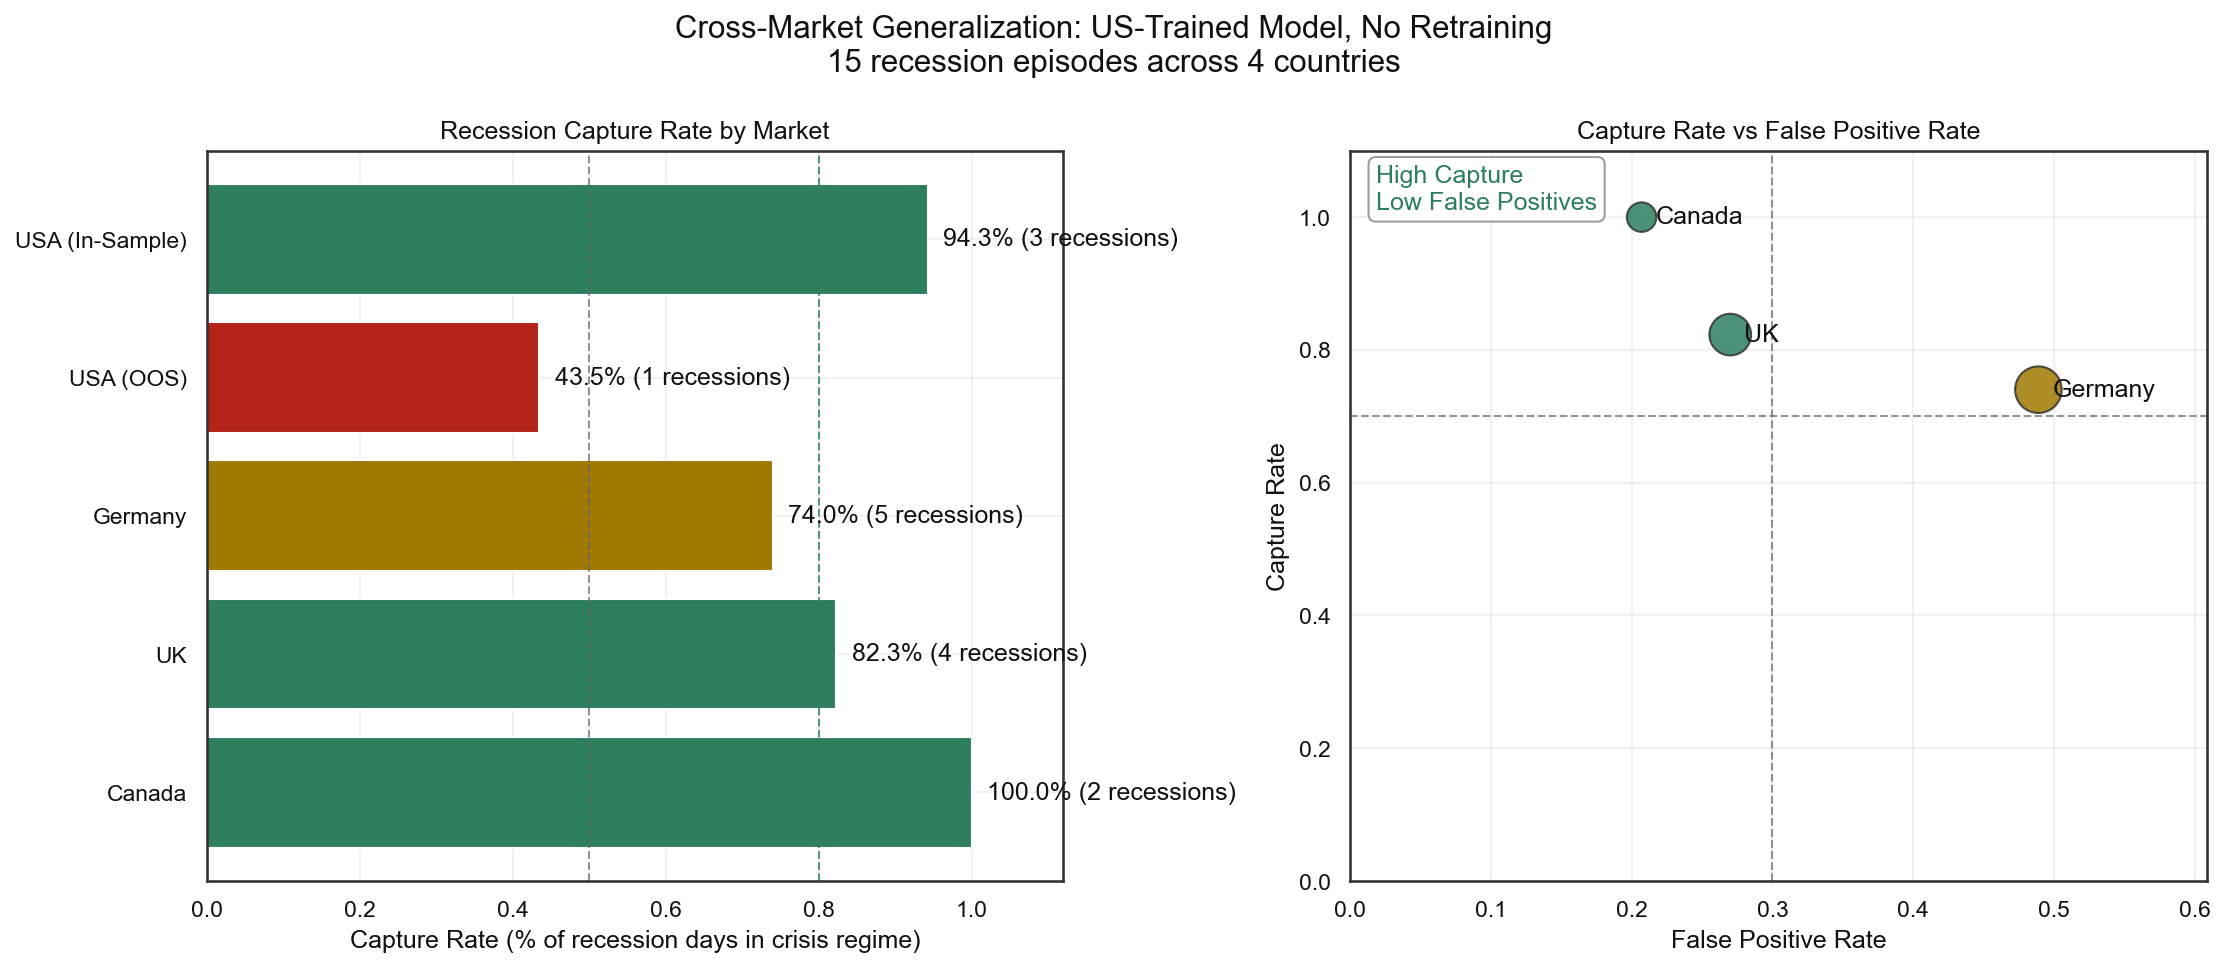
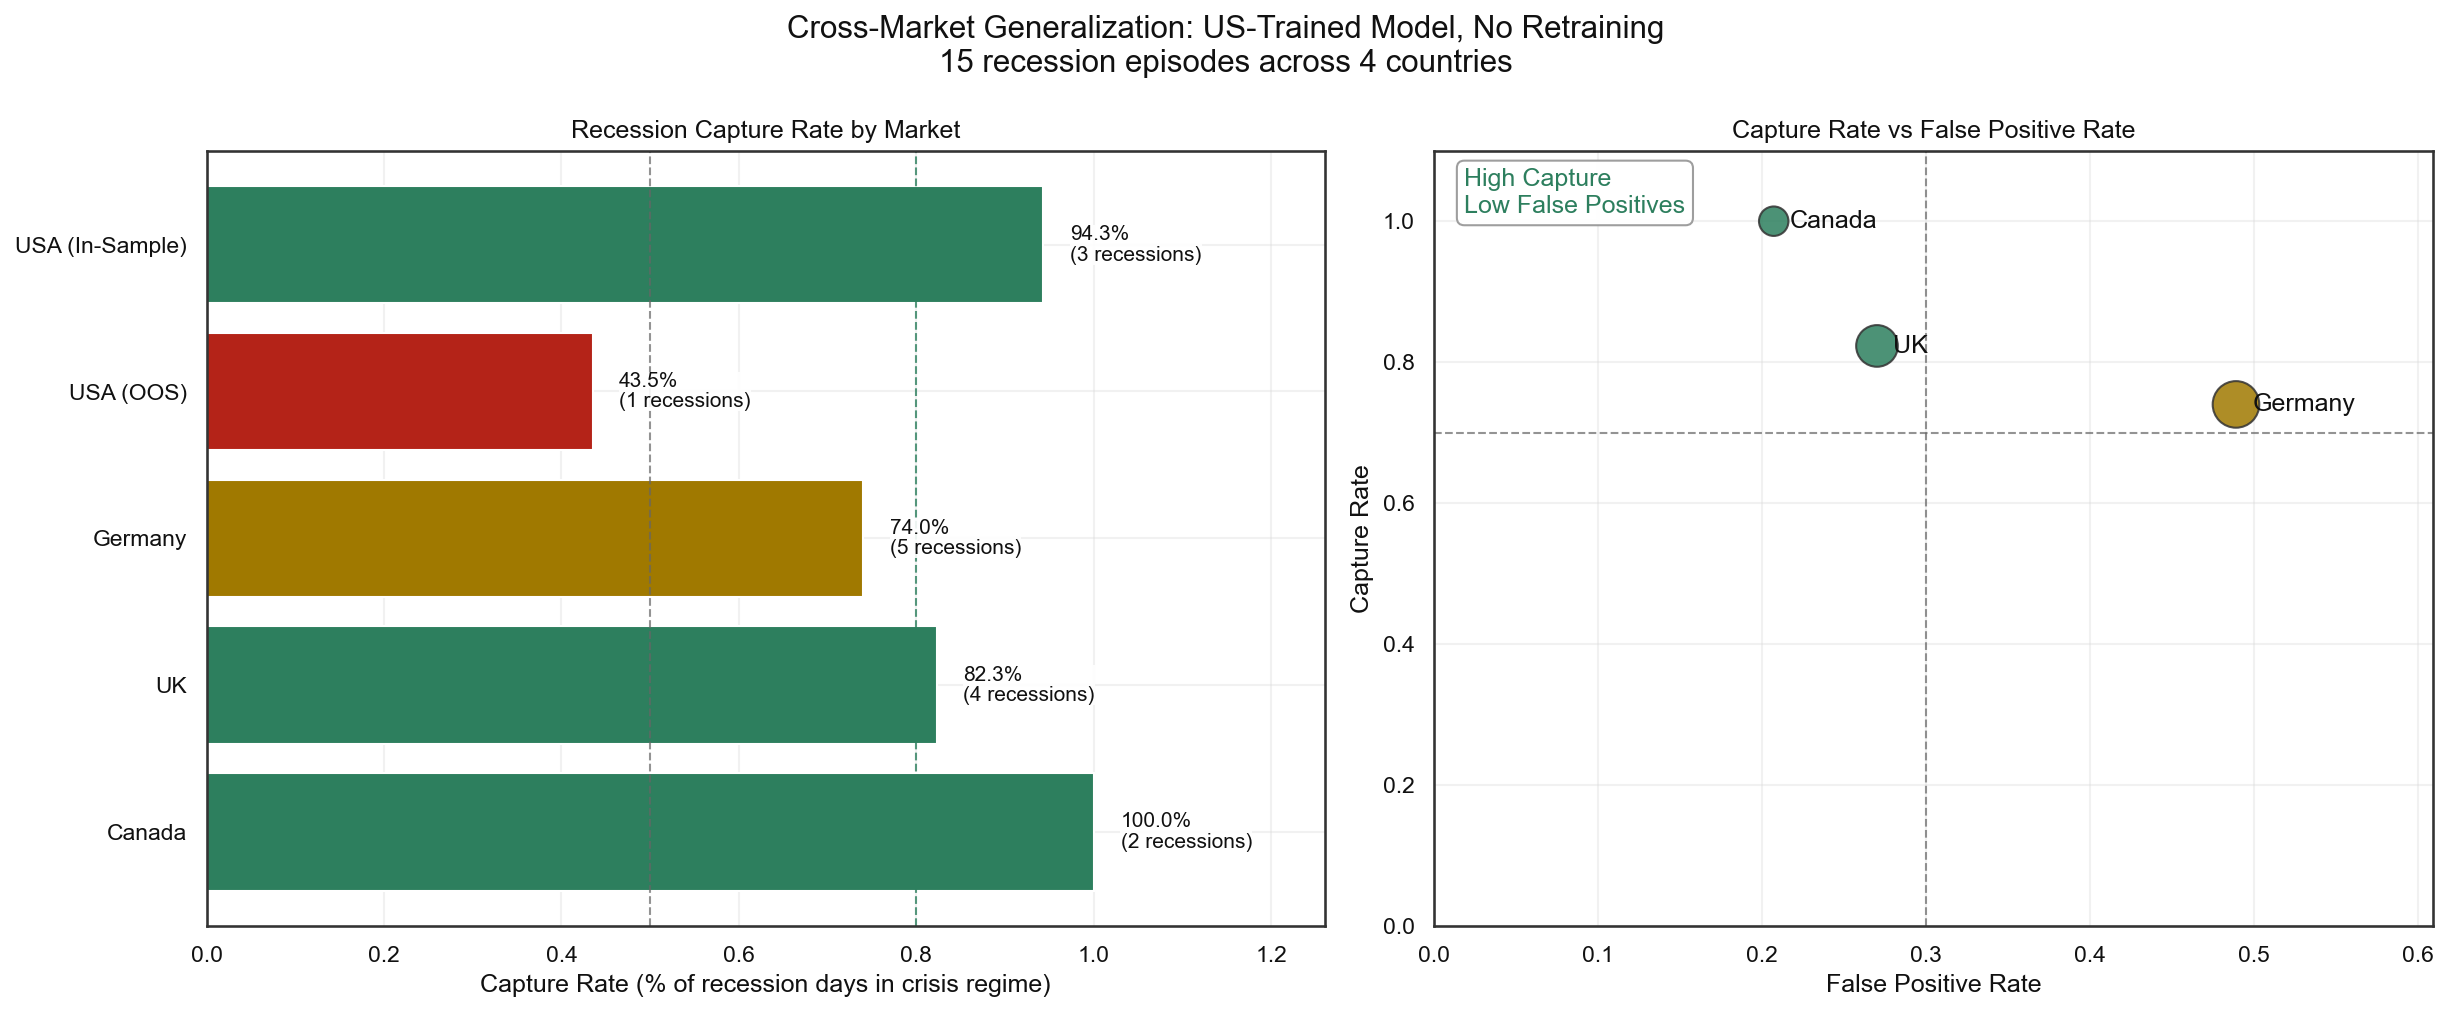
fix deliverables notebook paths and cross-market chart layout

diff --git a/viz.py b/viz.py
@@ -413,7 +413,7 @@ def plot_cross_market_validation(results_dict):
         return COLORS[2]
 
     colors = [color_for_capture(capture) for capture in captures]
-    fig, axes = plt.subplots(1, 2, figsize=(15, 6.5))
+    fig, axes = plt.subplots(1, 2, figsize=(16.5, 6.8), gridspec_kw={"width_ratios": [1.12, 1]})
     y = np.arange(len(markets))
     axes[0].barh(y, captures, color=colors)
     axes[0].set_yticks(y)
@@ -421,11 +421,21 @@ def plot_cross_market_validation(results_dict):
     axes[0].invert_yaxis()
     axes[0].axvline(0.50, color="#666666", linestyle="--", linewidth=1, alpha=0.7)
     axes[0].axvline(0.80, color=COLORS[3], linestyle="--", linewidth=1, alpha=0.8)
-    axes[0].set_xlim(0, 1.12)
+    axes[0].set_xlim(0, 1.26)
     axes[0].set_xlabel("Capture Rate (% of recession days in crisis regime)")
     axes[0].set_title("Recession Capture Rate by Market")
     for i, (capture, rec_count) in enumerate(zip(captures, recessions)):
-        axes[0].text(capture + 0.02, i, f"{capture:.1%} ({rec_count} recessions)", va="center")
+        x_text = min(capture + 0.03, 1.15)
+        axes[0].text(
+            x_text,
+            i,
+            f"{capture:.1%}\n({rec_count} recessions)",
+            va="center",
+            ha="left",
+            fontsize=10,
+            linespacing=1.1,
+            bbox={"facecolor": "white", "edgecolor": "none", "alpha": 0.9, "pad": 0.15},
+        )
 
     scatter_markets = [m for m in markets if results_dict[m]["fp_rate"] is not None]
     x = [results_dict[m]["fp_rate"] for m in scatter_markets]
